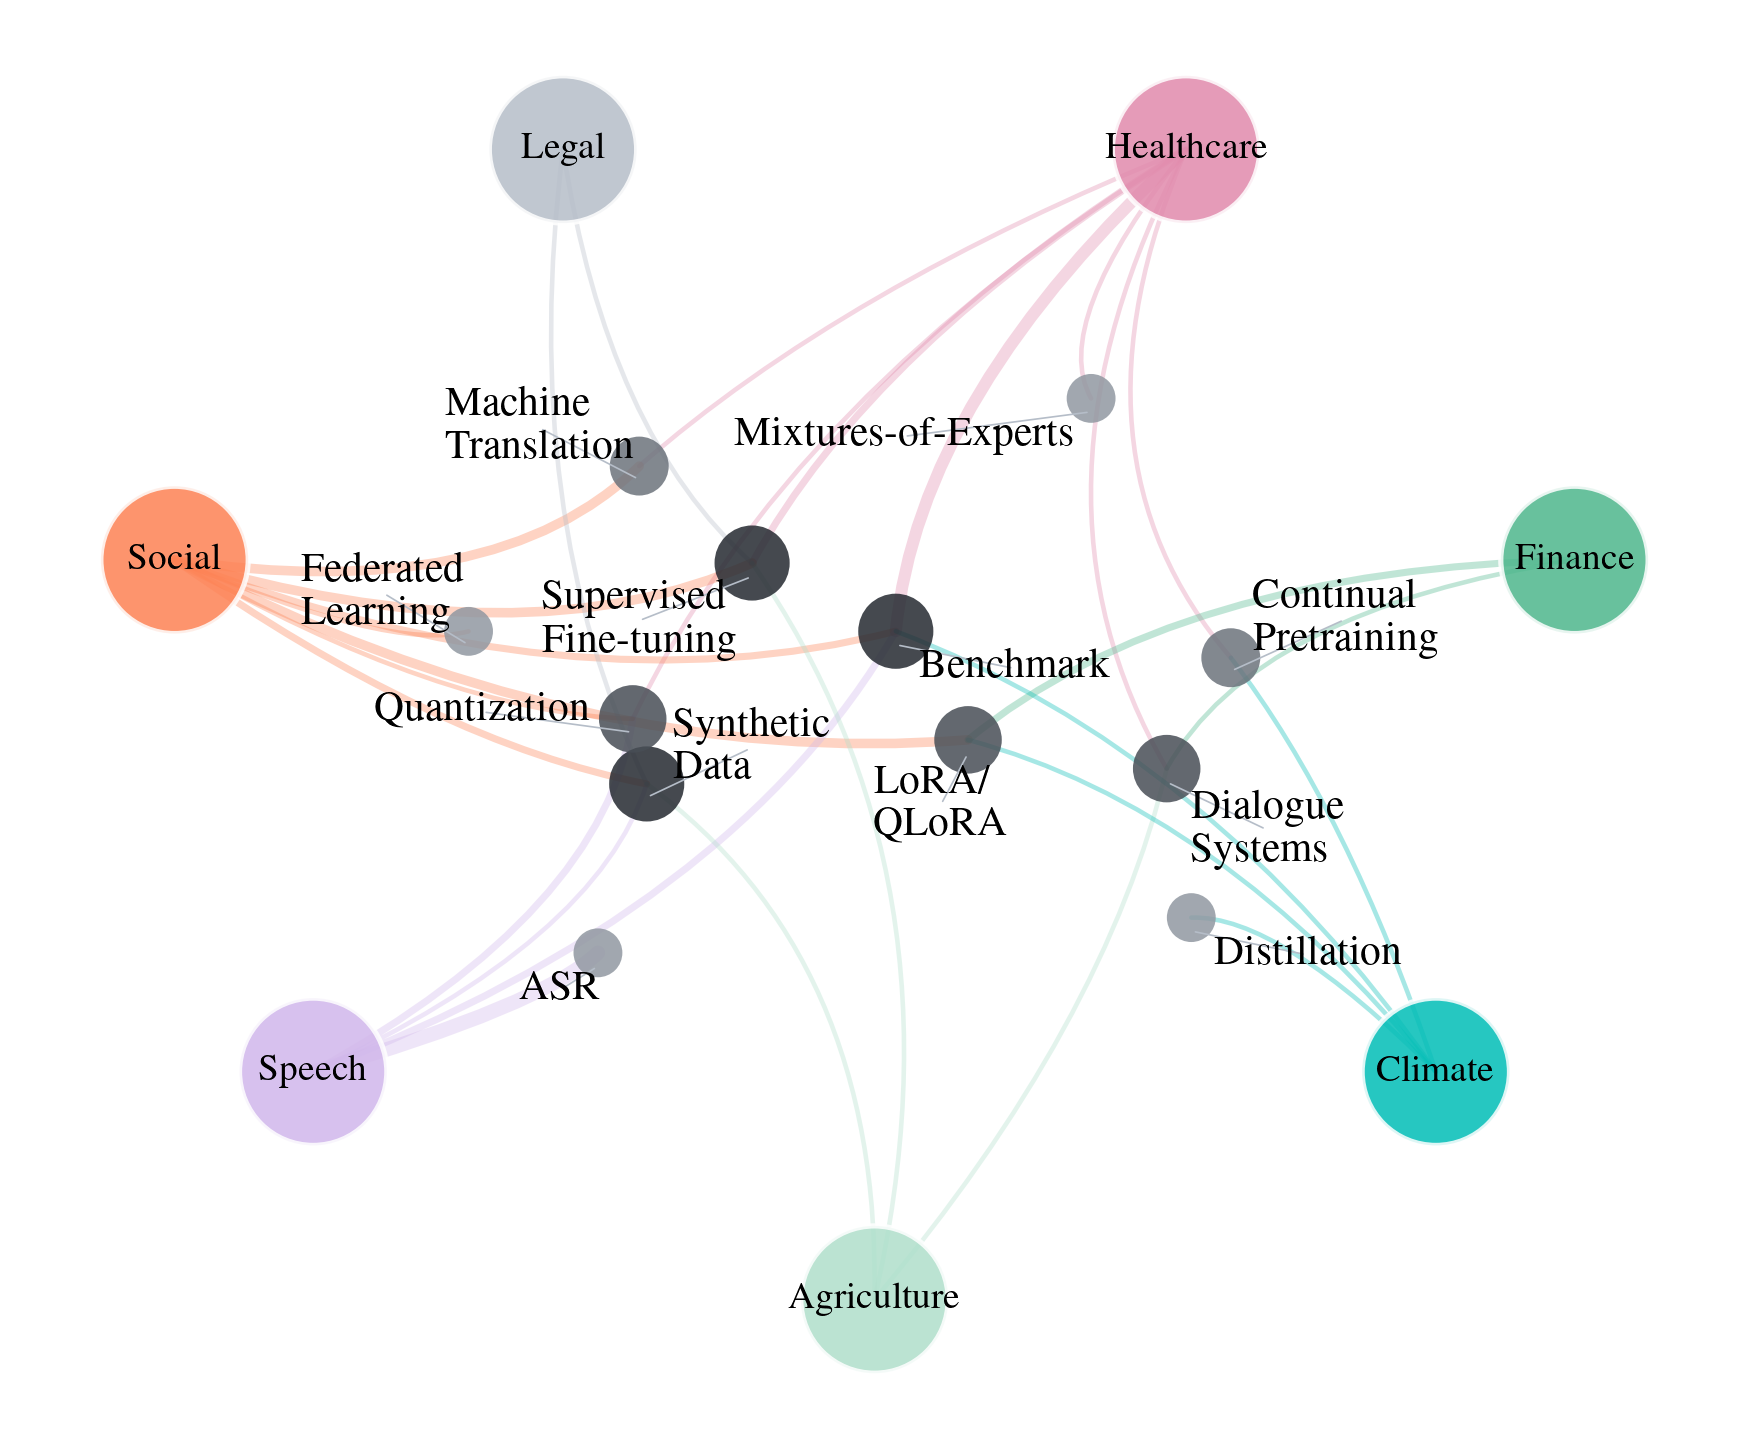
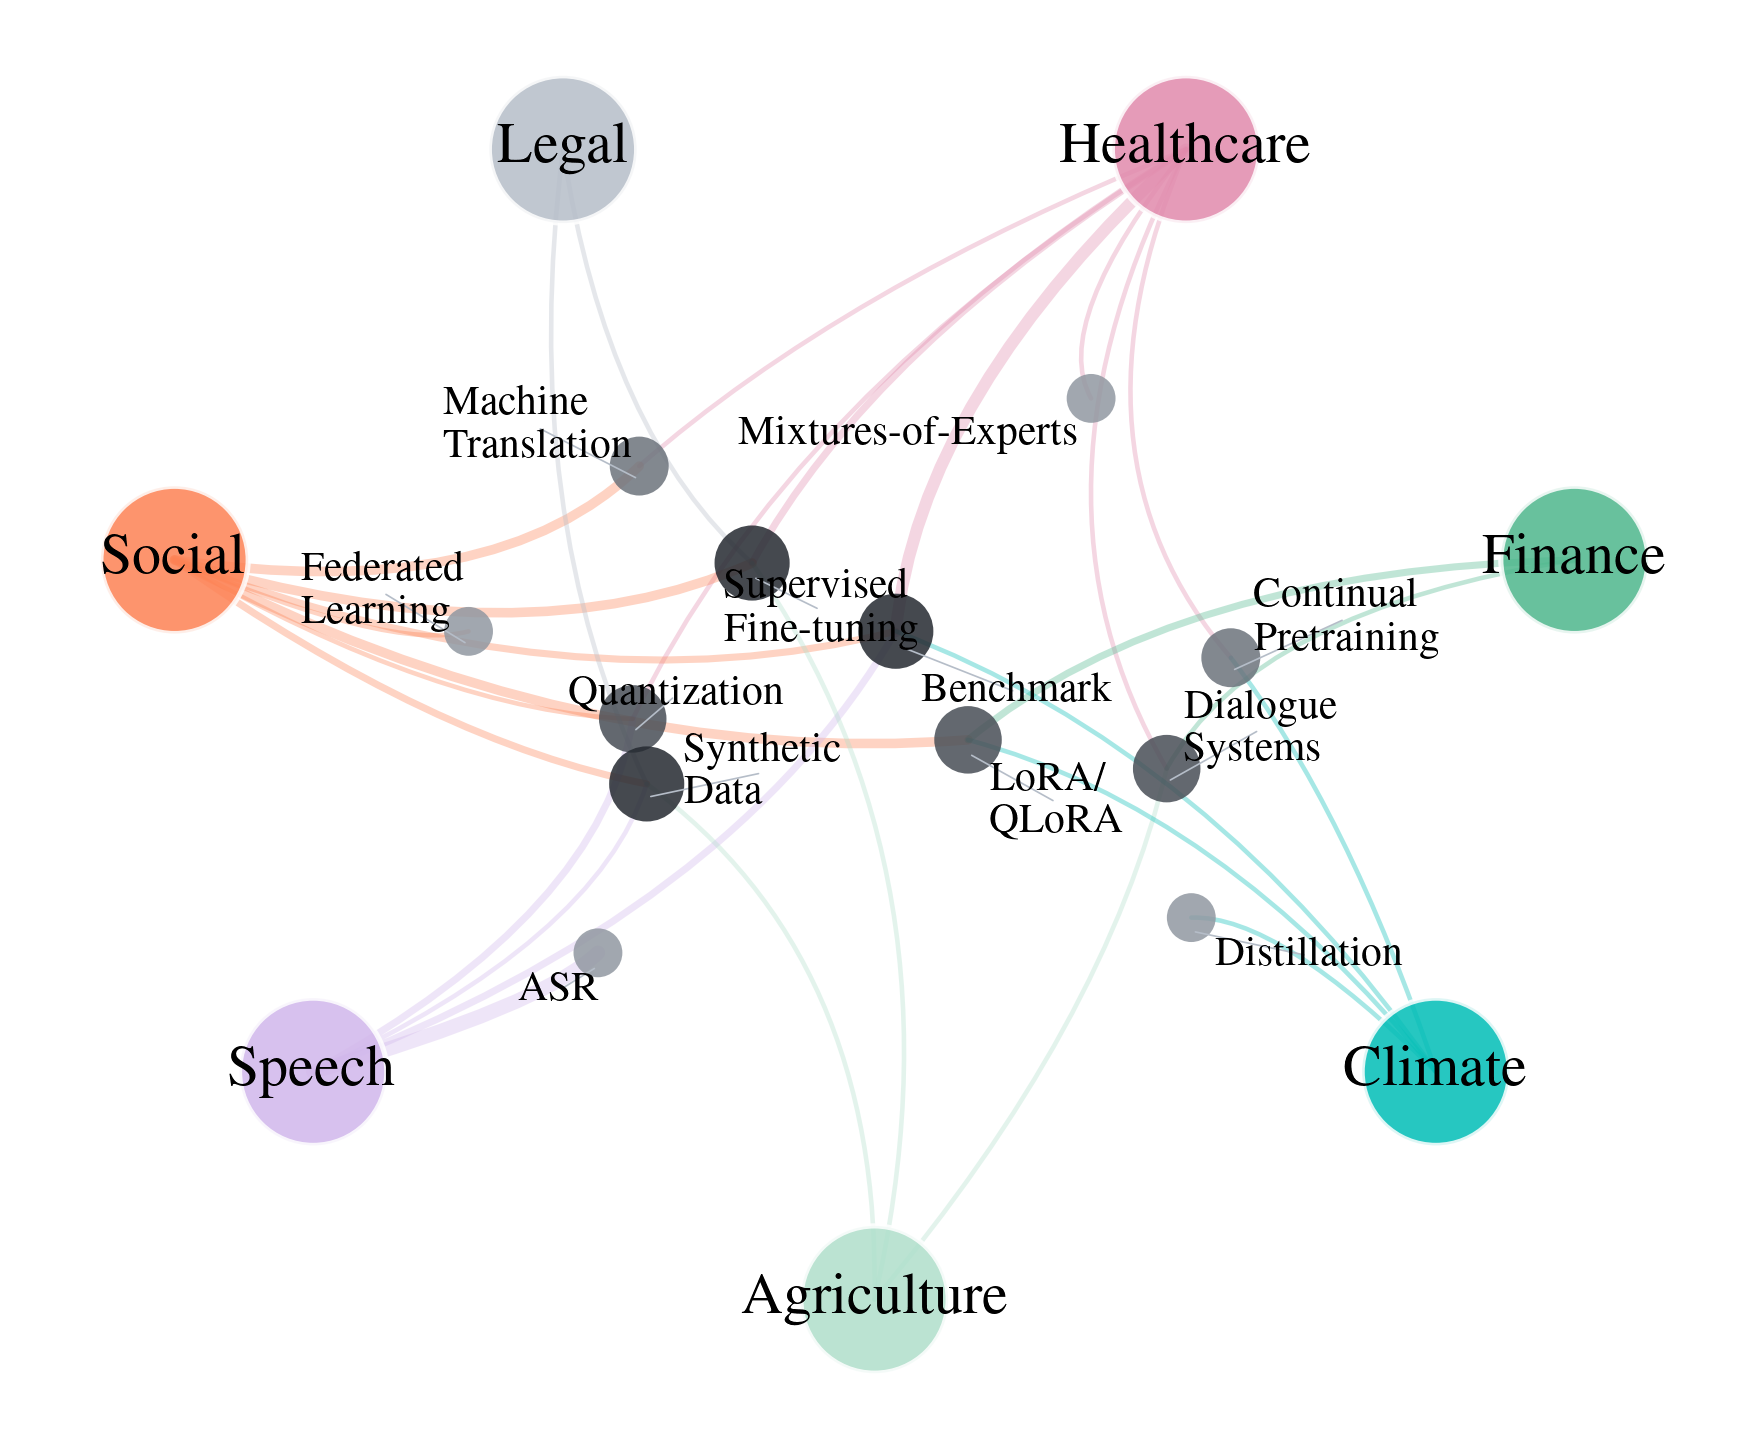
[wip] Update

diff --git a/analysis/deployment_domains.py b/analysis/deployment_domains.py
@@ -284,7 +284,7 @@ def plot_domain_technique_network(
             domain,
             ha="center",
             va="center",
-            fontsize=18,
+            fontsize=28,
             fontweight="bold",
             fontfamily="serif",
             color="black",
